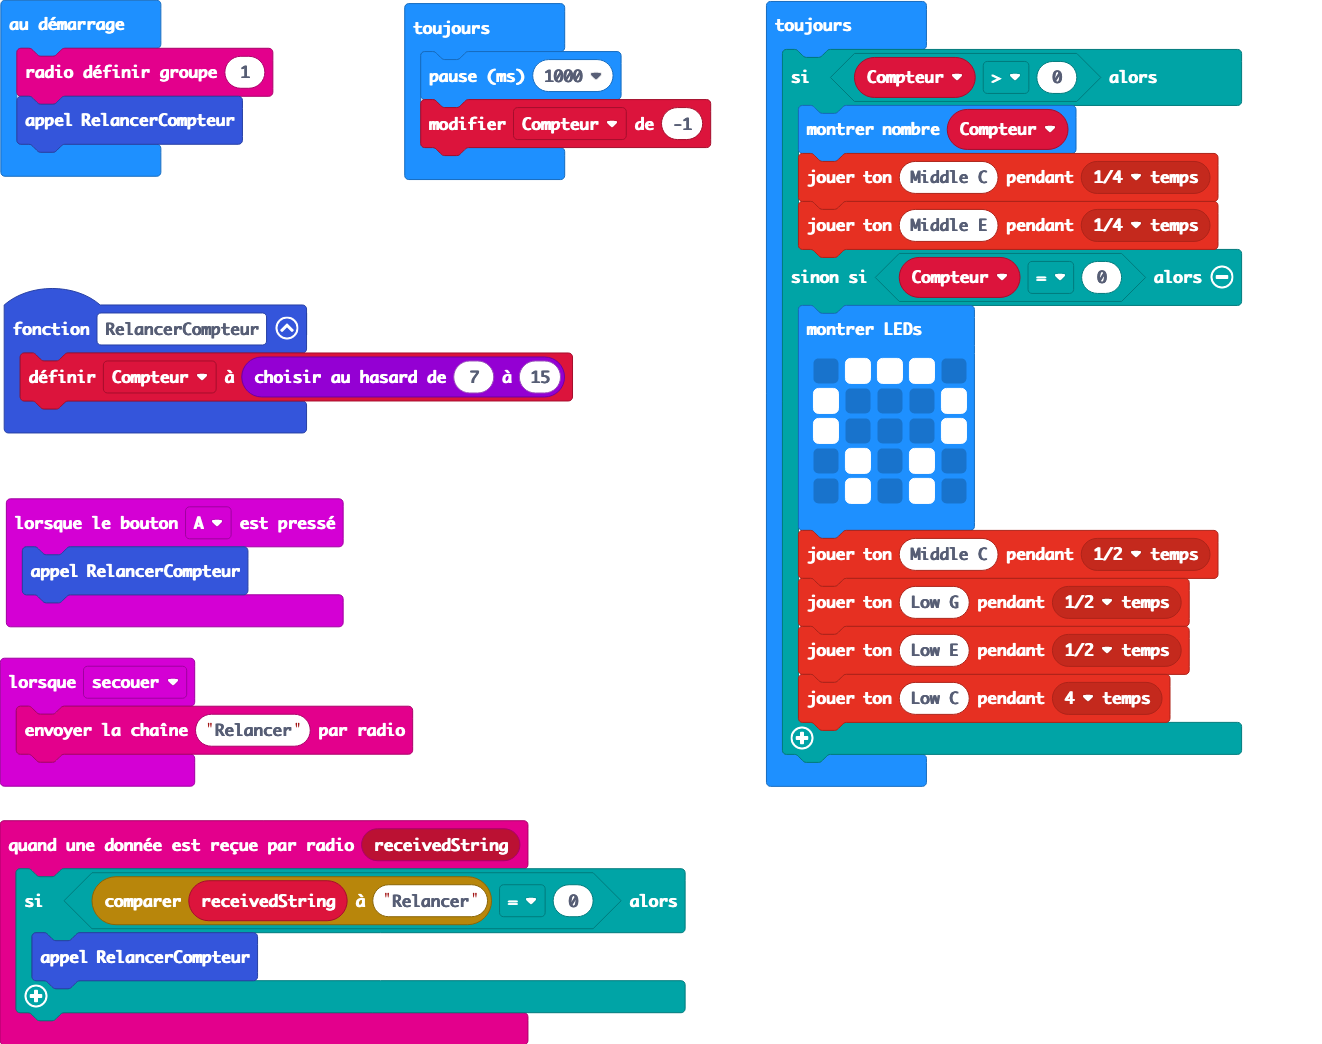
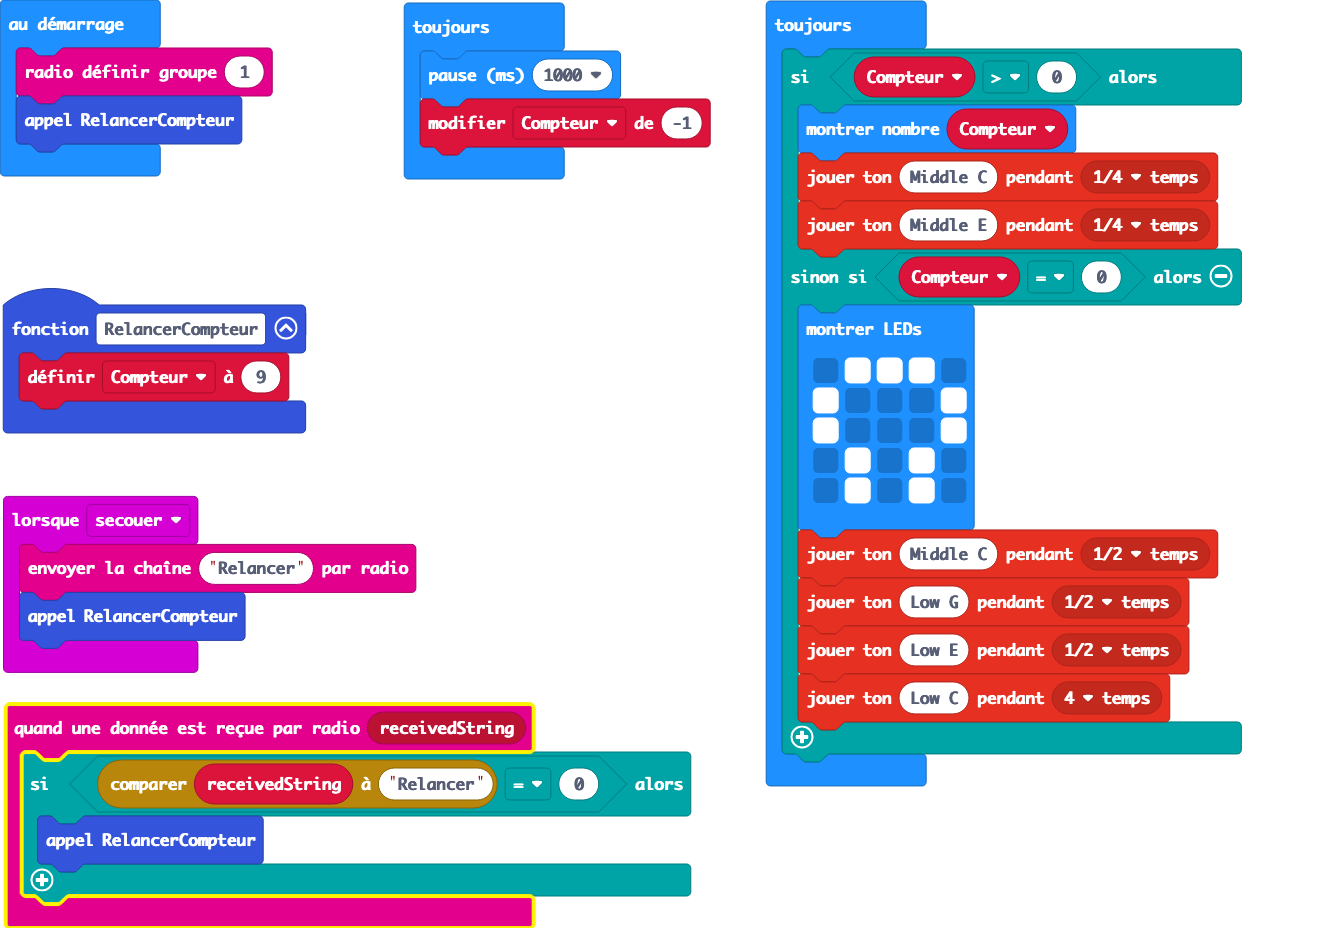
Simplification

diff --git a/main.ts b/main.ts
@@ -1,6 +1,3 @@
-input.onButtonPressed(Button.A, function () {
-    RelancerCompteur()
-})
 radio.onReceivedString(function (receivedString) {
     if (receivedString.compare("Relancer") == 0) {
         RelancerCompteur()
@@ -8,9 +5,10 @@ radio.onReceivedString(function (receivedString) {
 })
 input.onGesture(Gesture.Shake, function () {
     radio.sendString("Relancer")
+    RelancerCompteur()
 })
 function RelancerCompteur () {
-    Compteur = randint(7, 15)
+    Compteur = 9
 }
 let Compteur = 0
 radio.setGroup(1)

diff --git a/README.md b/README.md
@@ -19,12 +19,3 @@ Intervertir les briques Orange avec d'autres
 
 ## Pour modifier le timing
 Modifier le code dans la fonction "Relancer Compteur"
-![Timing](/Timing.png)
-
-## Pour télécharger
-Appuyer sur le bouton "télécharger" sous l'émulateur.
-
-Copier / Uploader le fichier.hex dans la carte Micro::bit (Celle ci apparait dans l'explorateur de fichier sous le nom MICROBIT).
-
-<img src="Simulateur.png" width="25%"/>
-<img src="TelechargerIci.png" width="50%"/>
